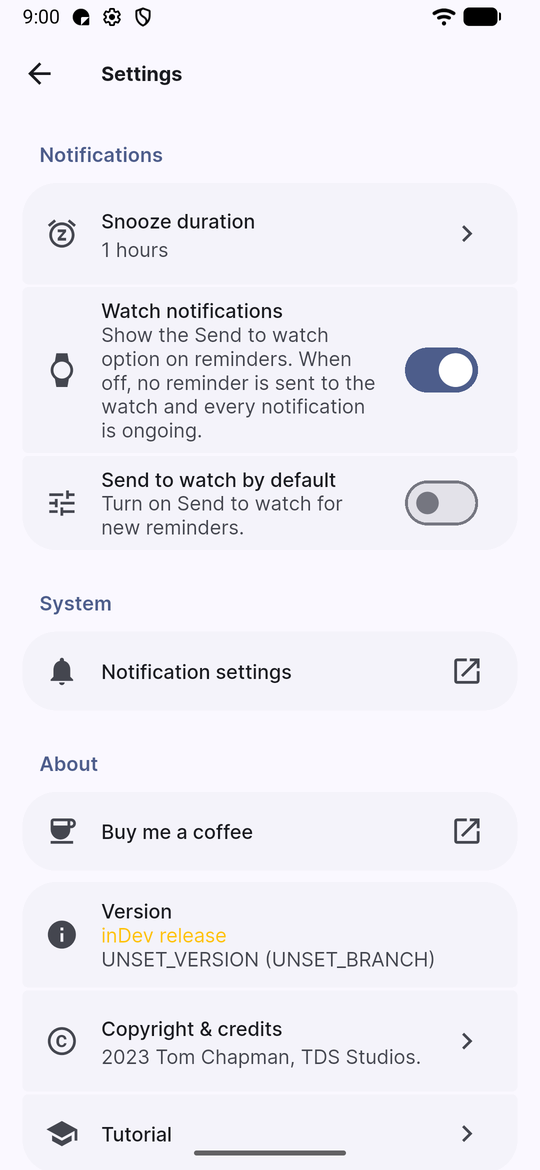
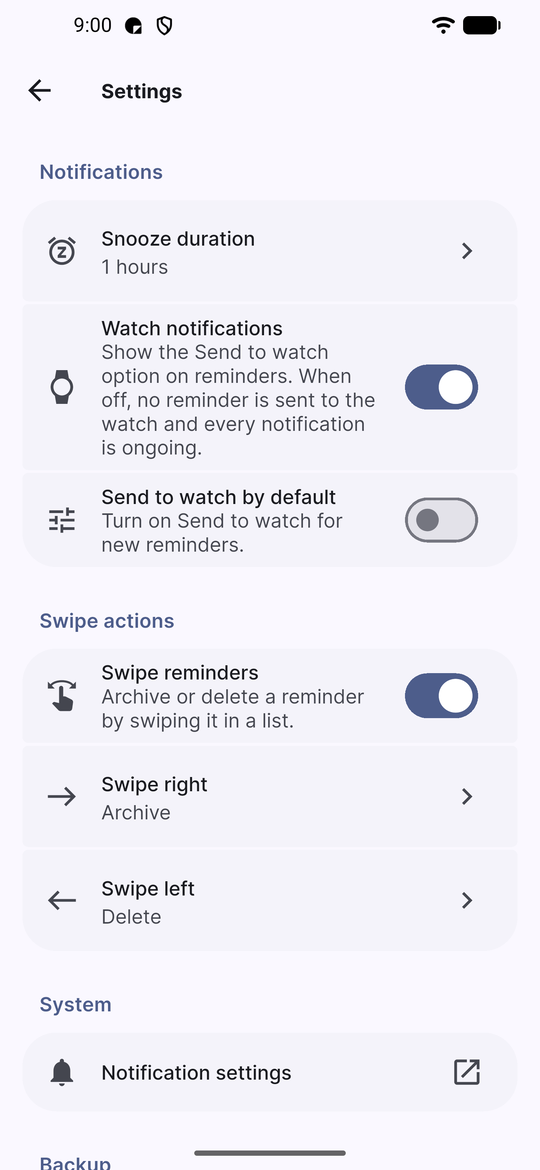
docs: README에 스와이프 설정·내보내기/가져오기와 자동 릴리스 반영
- 설정 스크린샷을 다시 찍고, 스와이프 삭제·스와이프 동작 선택·가져오기
  대화상자 스크린샷을 추가했다(Android 17 에뮬레이터, v2026.11.21-1).
- 기능 목록에 스와이프 동작 지정·끄기와 내보내기/가져오기를 넣고, 바뀐
  스와이프 설명과 "완료한 알림이 되살아나는 문제" 수정을 적었다.
- 빌드 방법에 GitHub Actions 자동 릴리스와 Secrets 등록 방법을 적었다.

diff --git a/README.md b/README.md
@@ -13,7 +13,8 @@ All credit for the original app goes to Tom Chapman; see [What's different in th
 
 ## 📸 Screenshots
 
-Release build (v2026.10.27-3 code) on a Galaxy S26 Ultra spec emulator (Android 17, 1080x2340), taken 2026-11-06.
+Release builds on a Galaxy S26 Ultra spec emulator (Android 17): v2026.10.27-3 code, taken 2026-11-06; settings, swipe
+and import screenshots from v2026.11.21-1, taken 2026-11-21.
 
 | Reminders | Dark theme | Edit a reminder |
 |:-:|:-:|:-:|
@@ -21,7 +22,9 @@ Release build (v2026.10.27-3 code) on a Galaxy S26 Ultra spec emulator (Android 
 | **Repeat on days of the week** | **Date and time** | **Time entry with the keypad** |
 | <img src="assets/screenshots/2026-10/repeat_weekdays.png" width="250" alt="Repeat dialog with Monday, Wednesday and Friday selected"> | <img src="assets/screenshots/2026-10/date_time.png" width="250" alt="Date and time dialog"> | <img src="assets/screenshots/2026-10/time_keypad.png" width="250" alt="Time picker in keypad input mode"> |
 | **Colours** | **Archive** | **Settings** |
-| <img src="assets/screenshots/2026-10/colour.png" width="250" alt="Colour picker"> | <img src="assets/screenshots/2026-10/archive.png" width="250" alt="Archive tab"> | <img src="assets/screenshots/2026-10/settings.png" width="250" alt="Settings page with the Watch notifications and Send to watch by default switches"> |
+| <img src="assets/screenshots/2026-10/colour.png" width="250" alt="Colour picker"> | <img src="assets/screenshots/2026-10/archive.png" width="250" alt="Archive tab"> | <img src="assets/screenshots/2026-10/settings.png" width="250" alt="Settings page with the watch switches and the Swipe actions section"> |
+| **Swipe to archive or delete** | **Choose what each swipe does** | **Import reminders from a file** |
+| <img src="assets/screenshots/2026-10/swipe.png" width="250" alt="A reminder swiped left, showing the delete icon"> | <img src="assets/screenshots/2026-10/swipe_actions.png" width="250" alt="Swipe left dialog with Archive, Delete and Do nothing"> | <img src="assets/screenshots/2026-10/import.png" width="250" alt="Import dialog asking whether to merge or replace"> |
 
 <img src="assets/screenshots/2026-10/notification.png" width="400" alt="A Noterly Dev notification with Mark as done and Snooze actions">
 
@@ -60,7 +63,10 @@ lets you add, finish and snooze them from the watch, and raises alarms on the wa
   be swiped away (the reminder stays in the list). In Settings, *Send to watch by default* sets it for new
   reminders and *Watch notifications* turns the option off altogether
 - 💤 Snooze reminders for a customisable amount of time
-- ✅ Mark reminders as done from the notification, or swipe them away in the app (with Undo); done reminders move to the Archive
+- ✅ Mark reminders as done from the notification; done reminders move to the Archive
+- 👉 Swipe reminders in the list to archive or delete them (with Undo). In Settings, choose what a right and a left
+  swipe do (Archive, Delete or Do nothing), or turn swiping off
+- 💾 Export all reminders, archived ones included, to a JSON file, and import them again with Merge or Replace
 - 🏃🏻♀ Create reminders from a quick settings tile, or share text to Noterly from other apps
 - 🎨 Material 3 Expressive UI with Material You colours and a dark theme
 - 🔒 No analytics or crash reporting: nothing leaves the device
@@ -73,12 +79,13 @@ Compared with the original 1.4.3 beta:
 - **Toolchain:** Flutter 3.47.7, Gradle 9.5.1, AGP 8.13.0, Kotlin 2.3.20; minSdk 36 (Android 16), arm64 only
 - **Firebase removed** (Analytics and Crashlytics), and the Inter font is bundled instead of downloaded at run time
 - **New:** weekday repeats, keypad time entry, the Send to watch option (formerly Dismissible) and its Settings switches
-  (#35), and sync with the Galaxy Watch app
+  (#35), sync with the Galaxy Watch app, export and import of reminders, and Gmail-style swipe settings
 - **Design:** Material 3 Expressive look (segmented list groups, pill buttons, larger New note button, reworked dialogs,
   empty-state illustrations)
 - **Fixes:**
   - Reminders were all lost when the save file failed to load (#42)
   - A snoozed repeating reminder came back after being marked as done (#20)
+  - A reminder archived in the app or on the watch came back when another one was marked as done from its notification
   - The Undo snack bar stayed until swiped away
   - No visible separation between items on the main list, and jerky scrolling
   - The app bar shadow stayed after switching tabs
@@ -131,3 +138,9 @@ repository root) writes `app-dev-release-signed.apk`. The key and lineage are ke
 non-ASCII path) and then signs it. Run `.\scripts\sign-release.ps1 -SavePassword` once to store the keystore password
 for your Windows user (DPAPI-encrypted, in `%LOCALAPPDATA%\noterly\`), so neither script asks for it again.
 The APK is written to `noterly/build/app/outputs/flutter-apk/`.
+
+Releases are made by GitHub Actions ([.github/workflows/release.yml](.github/workflows/release.yml)): every push to
+`main` that changes the app (not only docs or tests) is tested, built, signed the same way and published as a
+`vYYYY.MM.DD-N` release with notes from the commit messages. The key, lineage and password come from repository
+secrets, uploaded once with `pwsh -File .\scripts\set-ci-secrets.ps1`. A manual run with `dry_run` builds and signs
+without publishing.
